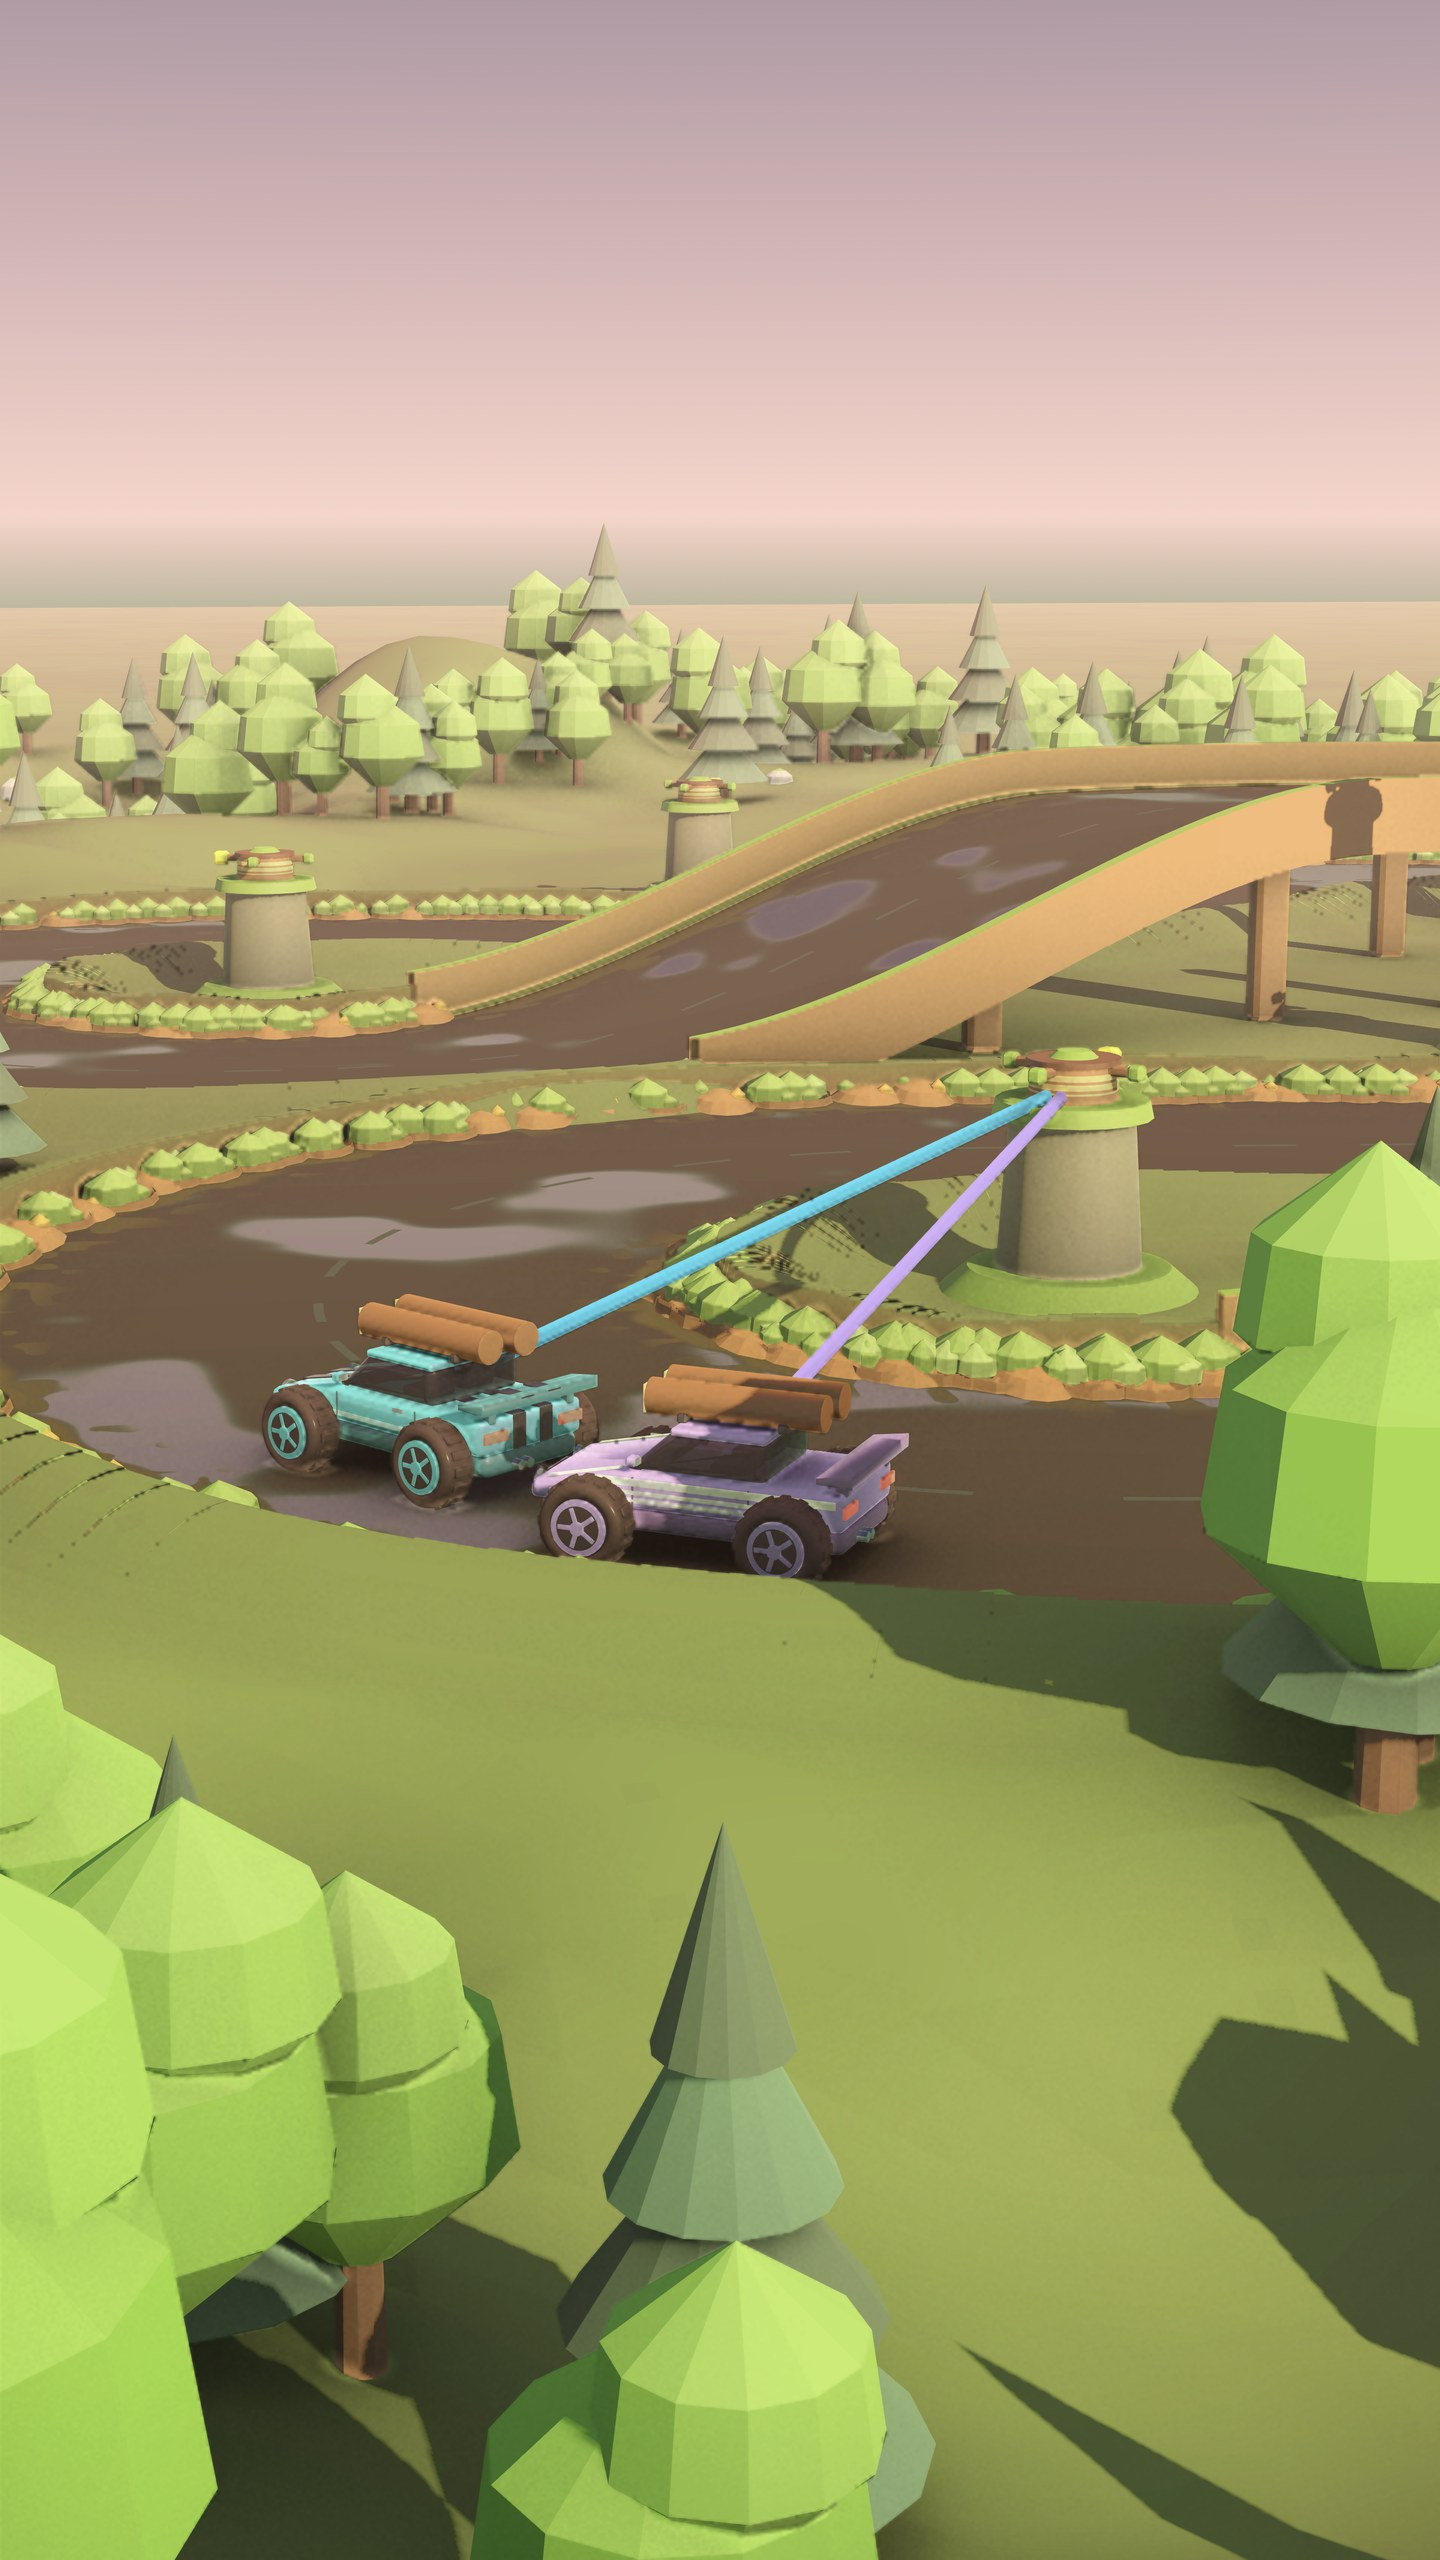
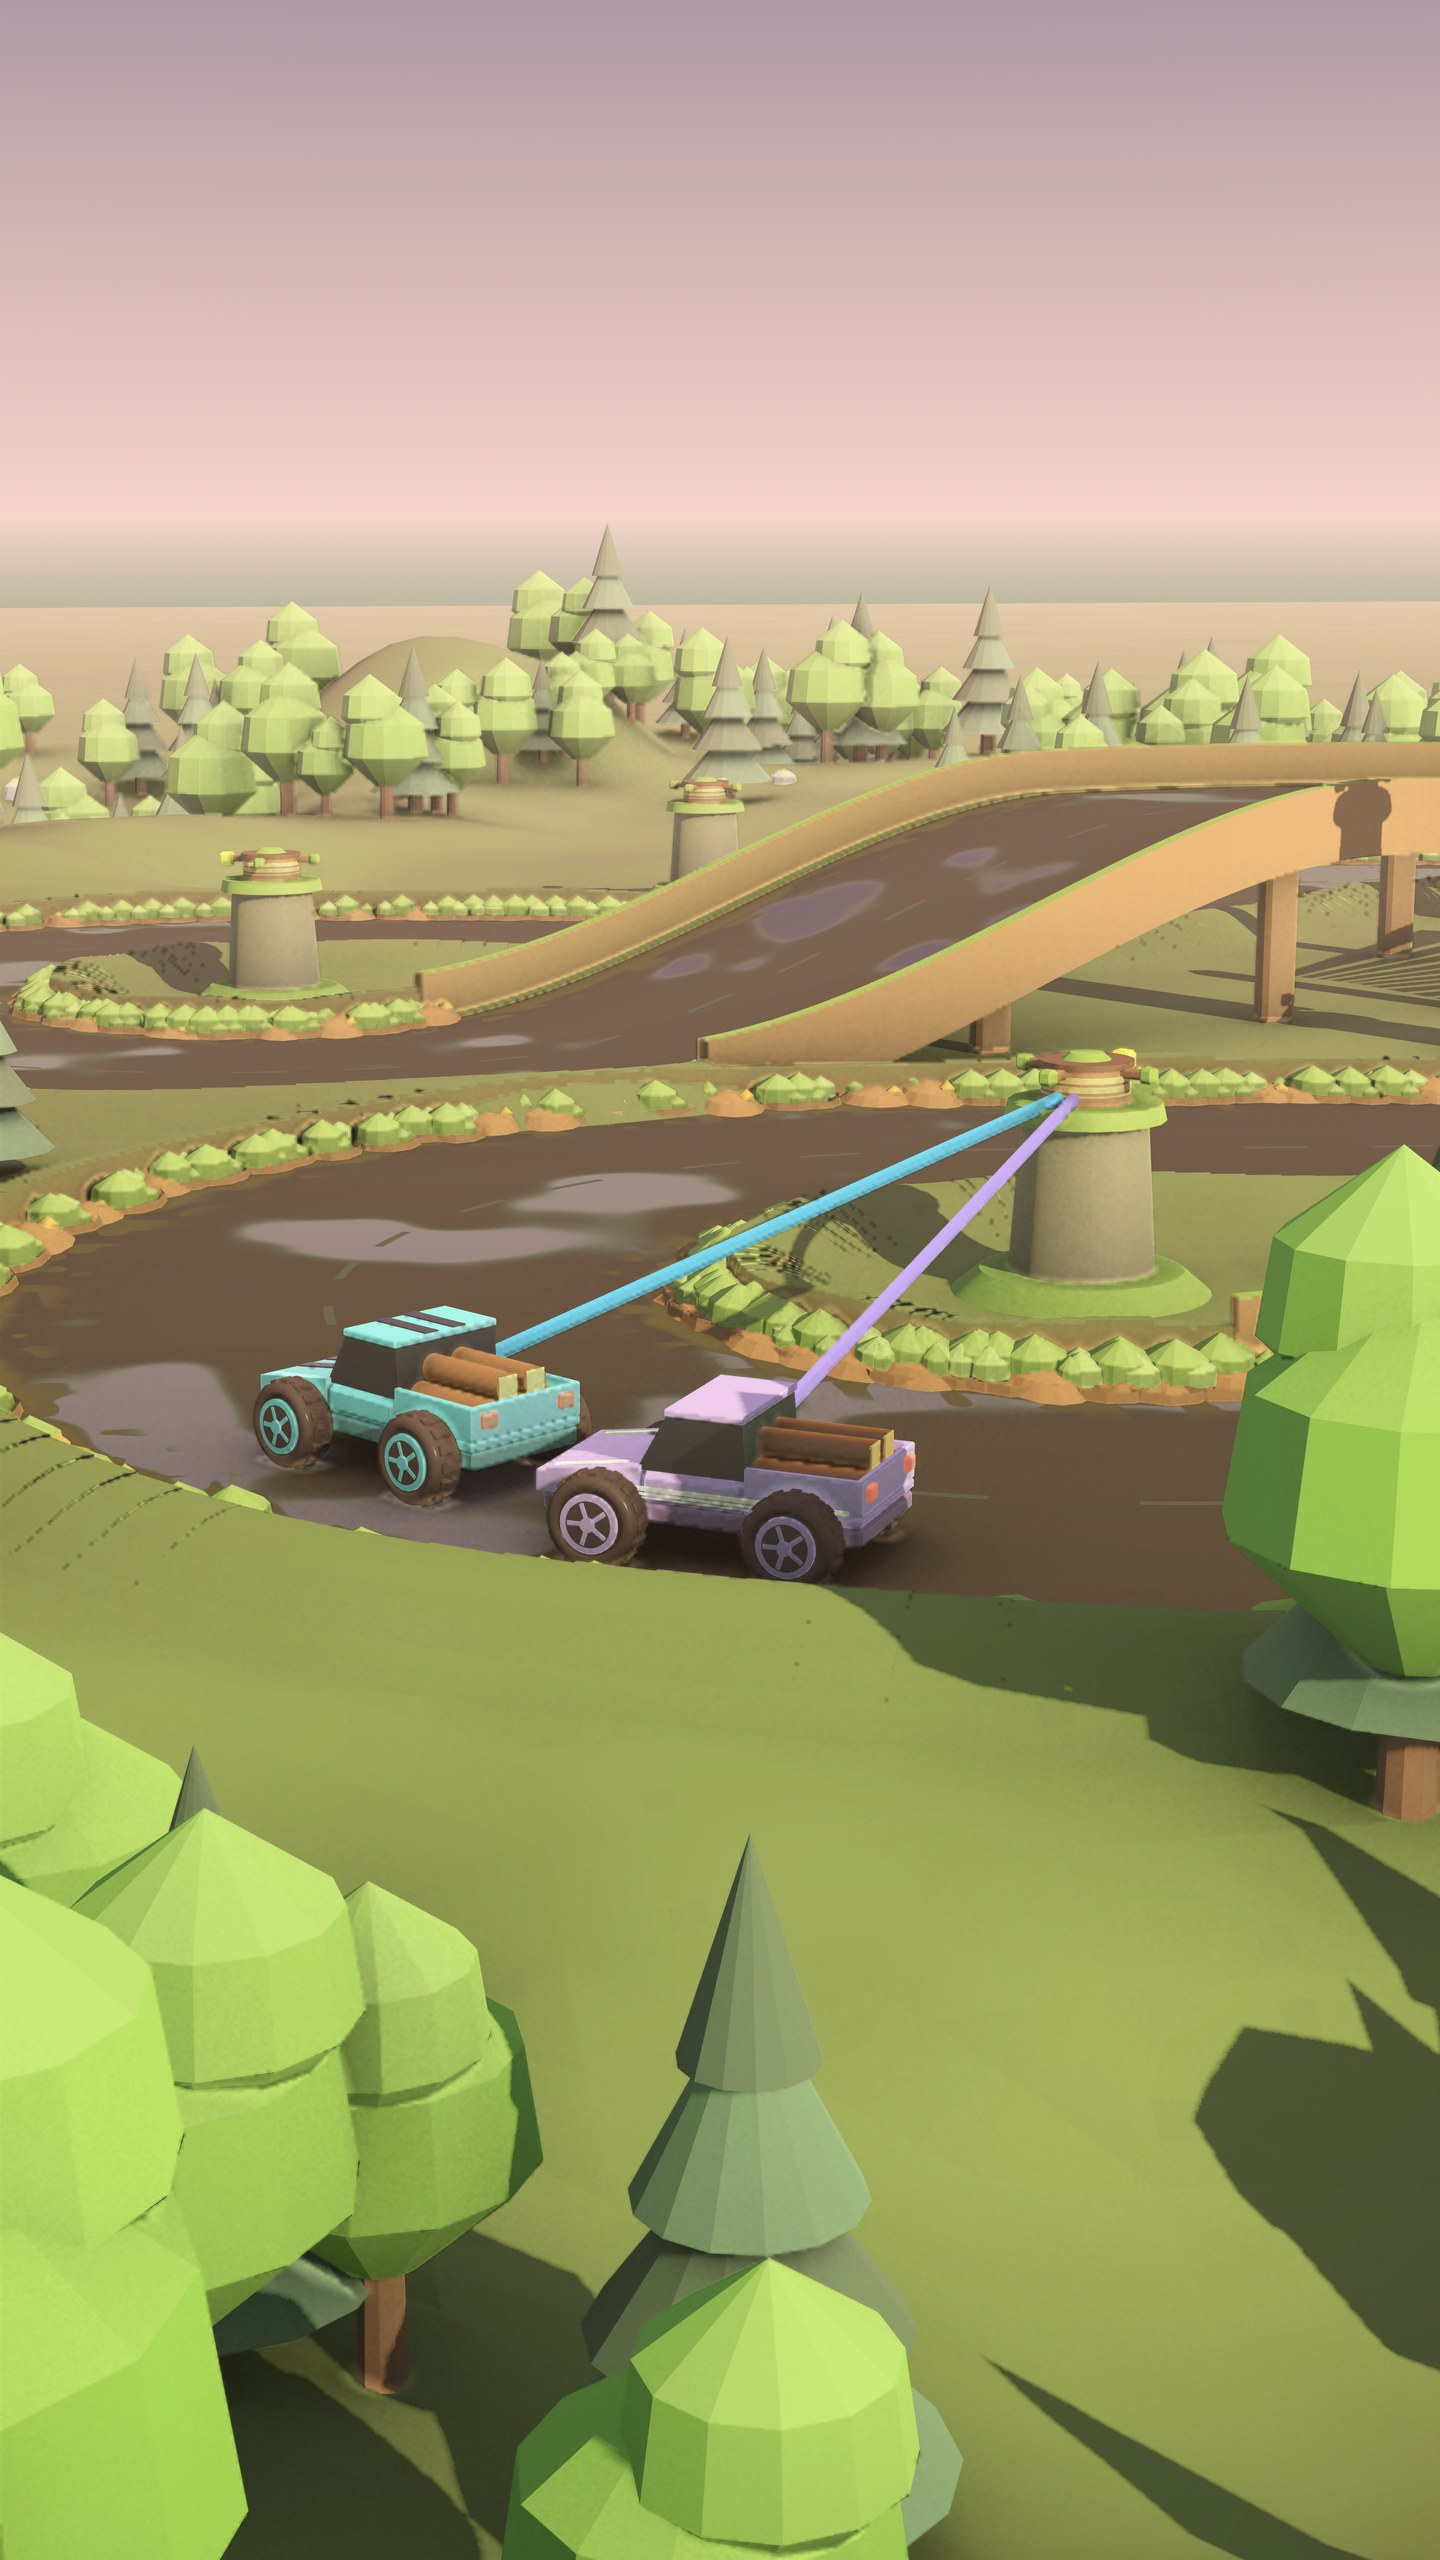
Under a bridge the car stays in sight: see-through deck window per world (#83)
* WIP: underpass preview options (deck window, slot, x-ray silhouette)

Claude-Session: https://claude.ai/code/session_01VxP4frZqFUbv79Scry8AGe

* Underpass: see-through deck window only, test

* Underpass test in CI, AGENTS.md notes on bridges

Claude-Session: https://claude.ai/code/session_01VxP4frZqFUbv79Scry8AGe

* Re-render Forest, Sand and Rock loading art (bridge windows in the background)

Claude-Session: https://claude.ai/code/session_01VxP4frZqFUbv79Scry8AGe

* Store screenshot 04-collect re-captured: the bridge window shows the lane below

Claude-Session: https://claude.ai/code/session_01VxP4frZqFUbv79Scry8AGe

---------

diff --git a/tether-rally/AGENTS.md b/tether-rally/AGENTS.md
@@ -58,6 +58,7 @@ godot --headless --path . --script tests/rivals_test.gd    # rival tiers get har
 godot --headless --path . --script tests/obstacles_test.gd # the AI's line never touches an Obstacles post
 godot --headless --path . --script tests/camera_test.gd    # low camera shots: off while racing, never inside the land
 godot --headless --path . --script tests/engine_test.gd    # every vehicle has an engine sound that loops cleanly
+godot --headless --path . --script tests/underpass_test.gd # all deck over a lower lane is a see-through window
 ```
 
 After changing a track layout, rerun `tools/gen_obstacles.gd` (posts placed off the AI's racing line,
@@ -66,7 +67,9 @@ Also bump `LAYOUT_VERSION` in `scripts/records.gd`, so players' best times and g
 road are dropped (medals and campaign progress stay). `tools/tighten_layout.gd` searches for a
 layout with short links (about one lane between bends) that still passes the layout check.
 
-Writing a `SceneTree` test: a node added to `root` only gets `_ready()` after `await process_frame`
+Writing a `SceneTree` test: after `view.build()` the old nodes are only queued for deletion, so a
+new node given the same `name` gets renamed; tag nodes a test looks for with `set_meta()` instead.
+Also in a `SceneTree` test: a node added to `root` only gets `_ready()` after `await process_frame`
 (see `tests/camera_test.gd`), and a runtime error stops the test function before `quit()`, so the run
 hangs instead of failing. Wrap local runs in `timeout`.
 
@@ -137,6 +140,11 @@ Only redo the ones where the change is visible, and put before/after images in t
   under the old rules). The bump drops best times and ghosts only: medals live in their own keys
   (`medal_trial`, `medal_race` in `records.cfg`), so anything a player earned must be saved as its
   own value, never only worked out from a time the bump erases.
+- Bridges (Guillaume, 2026-11-13): the stretch of deck right above the lane below is a see-through
+  window in the world's material (clear ice, timber planks, carved lattice, steel grating), so a car
+  under a bridge never vanishes; visual only (`_window_spans`, `_window_mat` in `world_view.gd`).
+  `track.bridges[k]["under"]` is not always the lower road (the height solver can swap levels):
+  compare `height_at` of both passes, as `WorldView._crossings()` does.
 - The race camera stays fairly top-down (68°) while the player steers, so lines through bends stay
   readable. Low cinematic shots (`WorldView.CINE_SHOTS`, picked in `main.gd` `_pick_shot`) are only
   for moments nobody steers: countdown, finish/results, the tutorial's cards and frozen bends.
